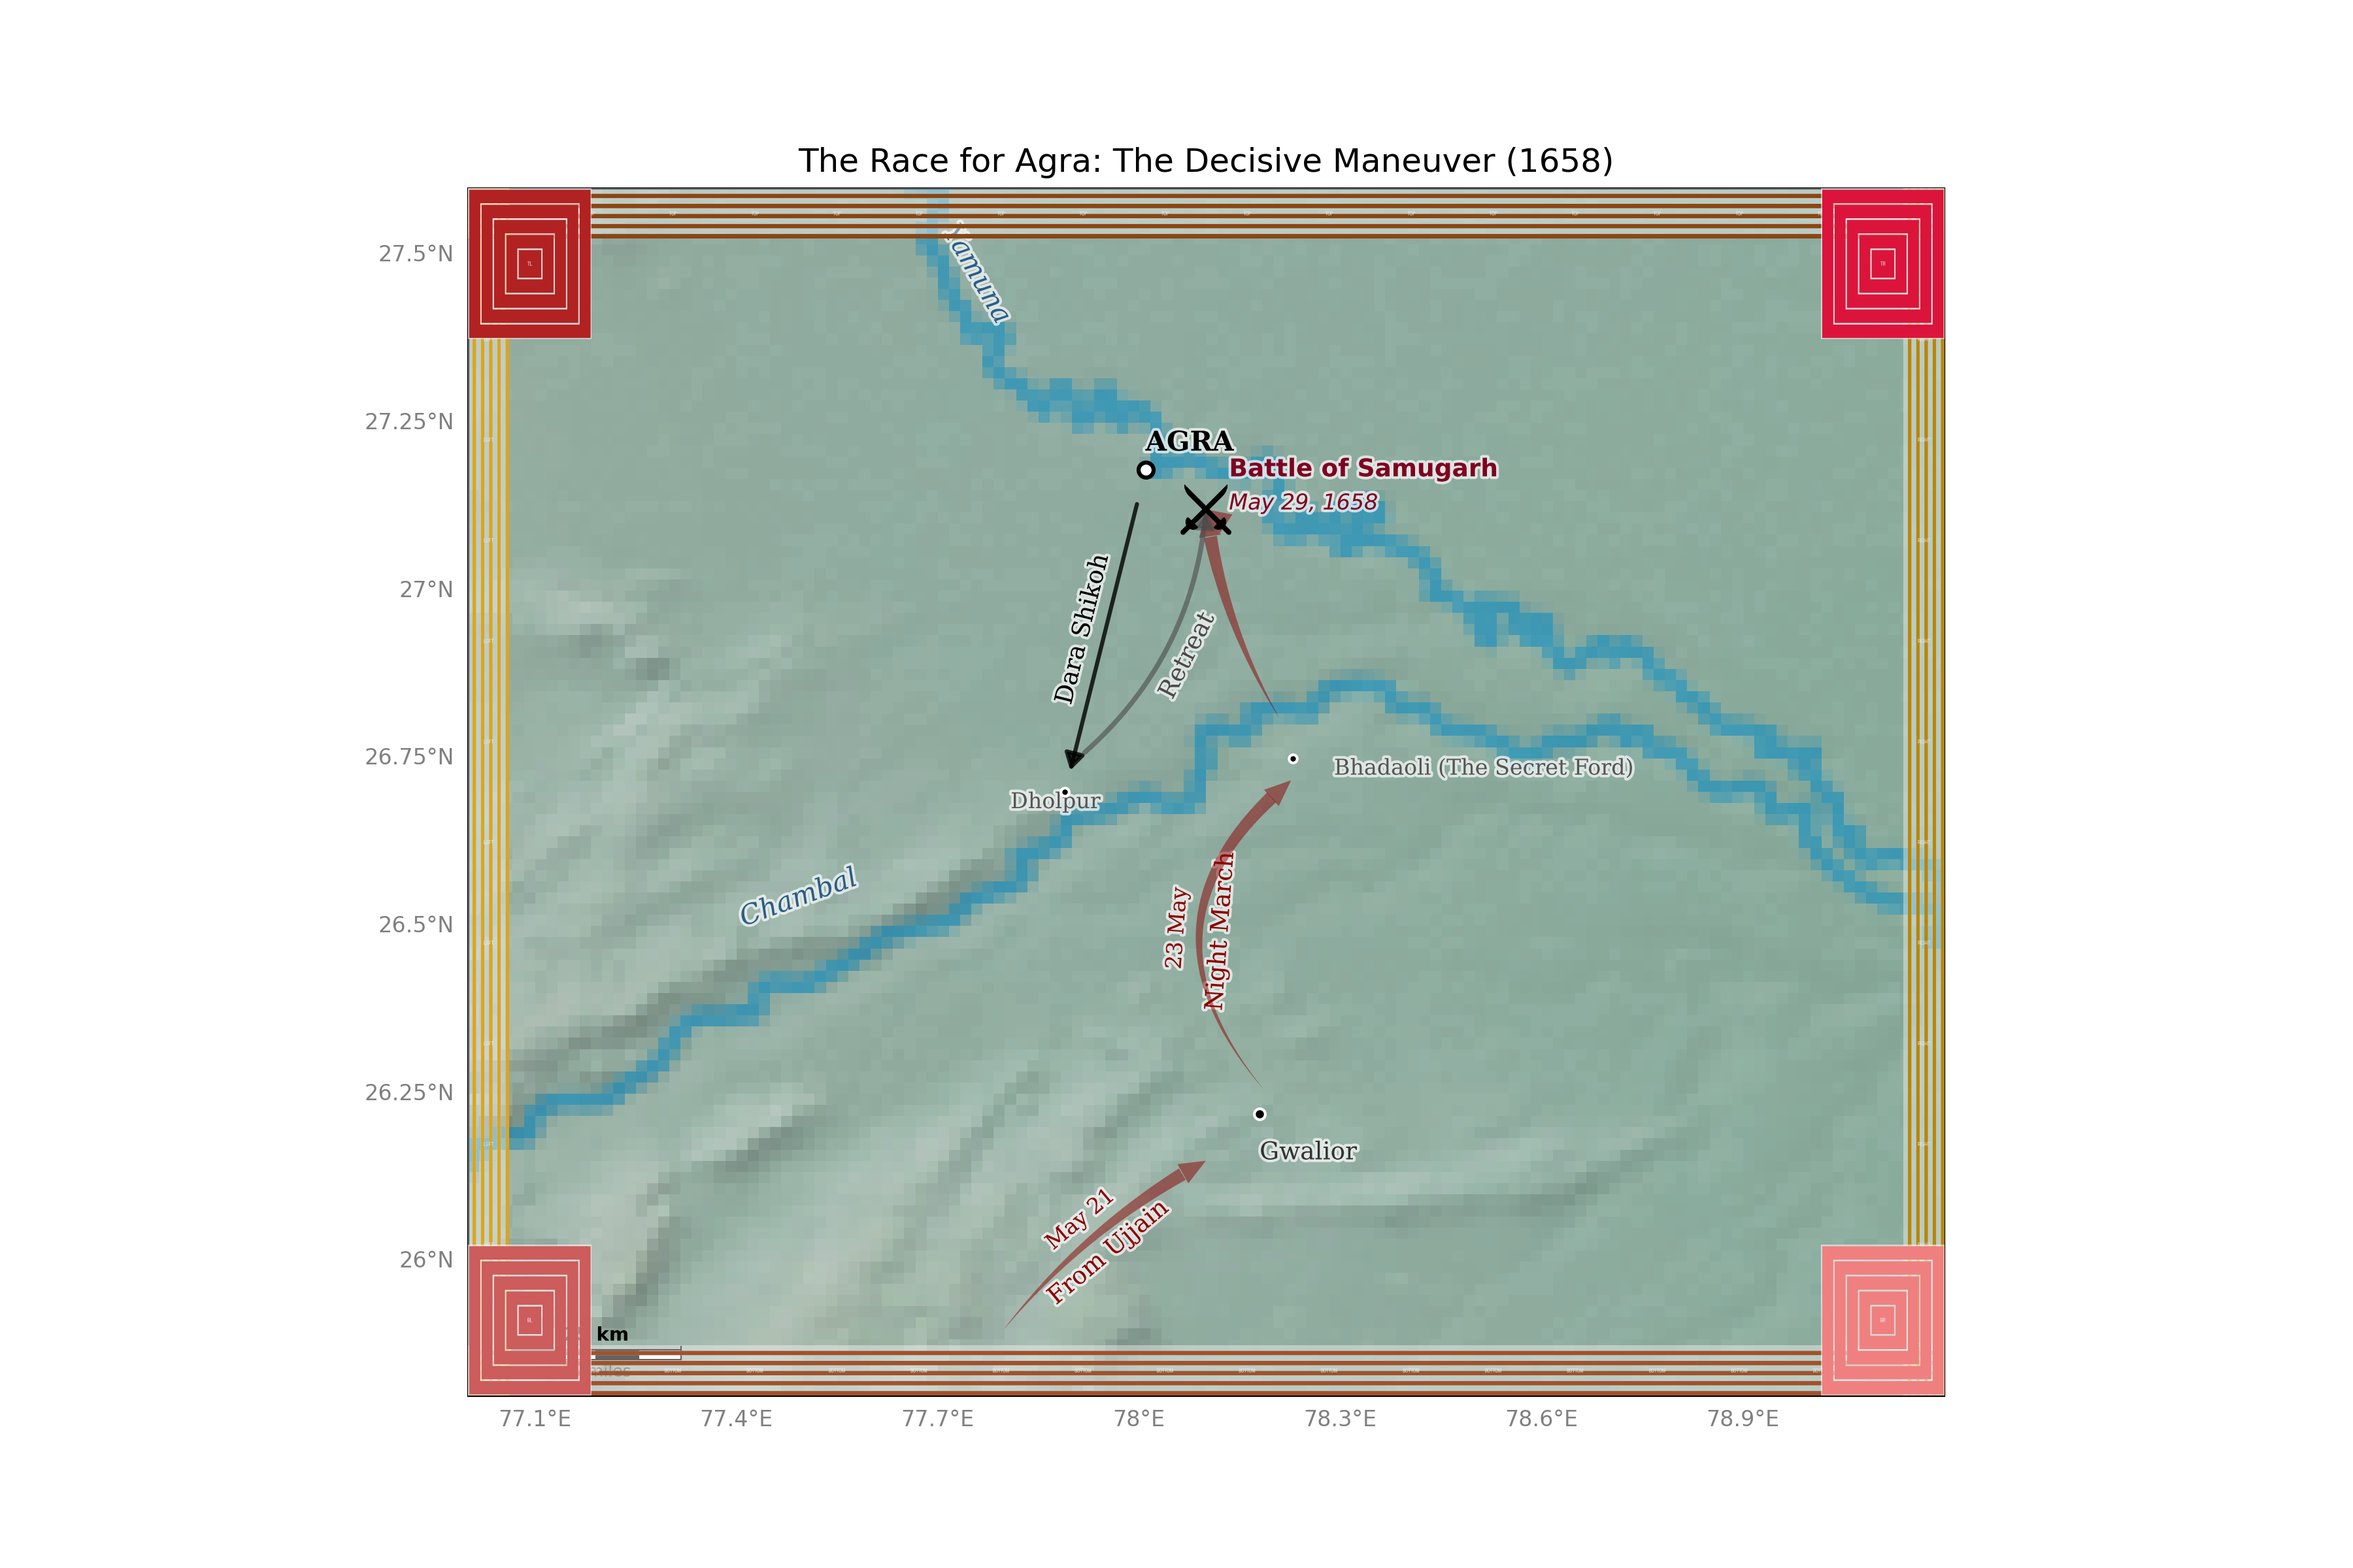
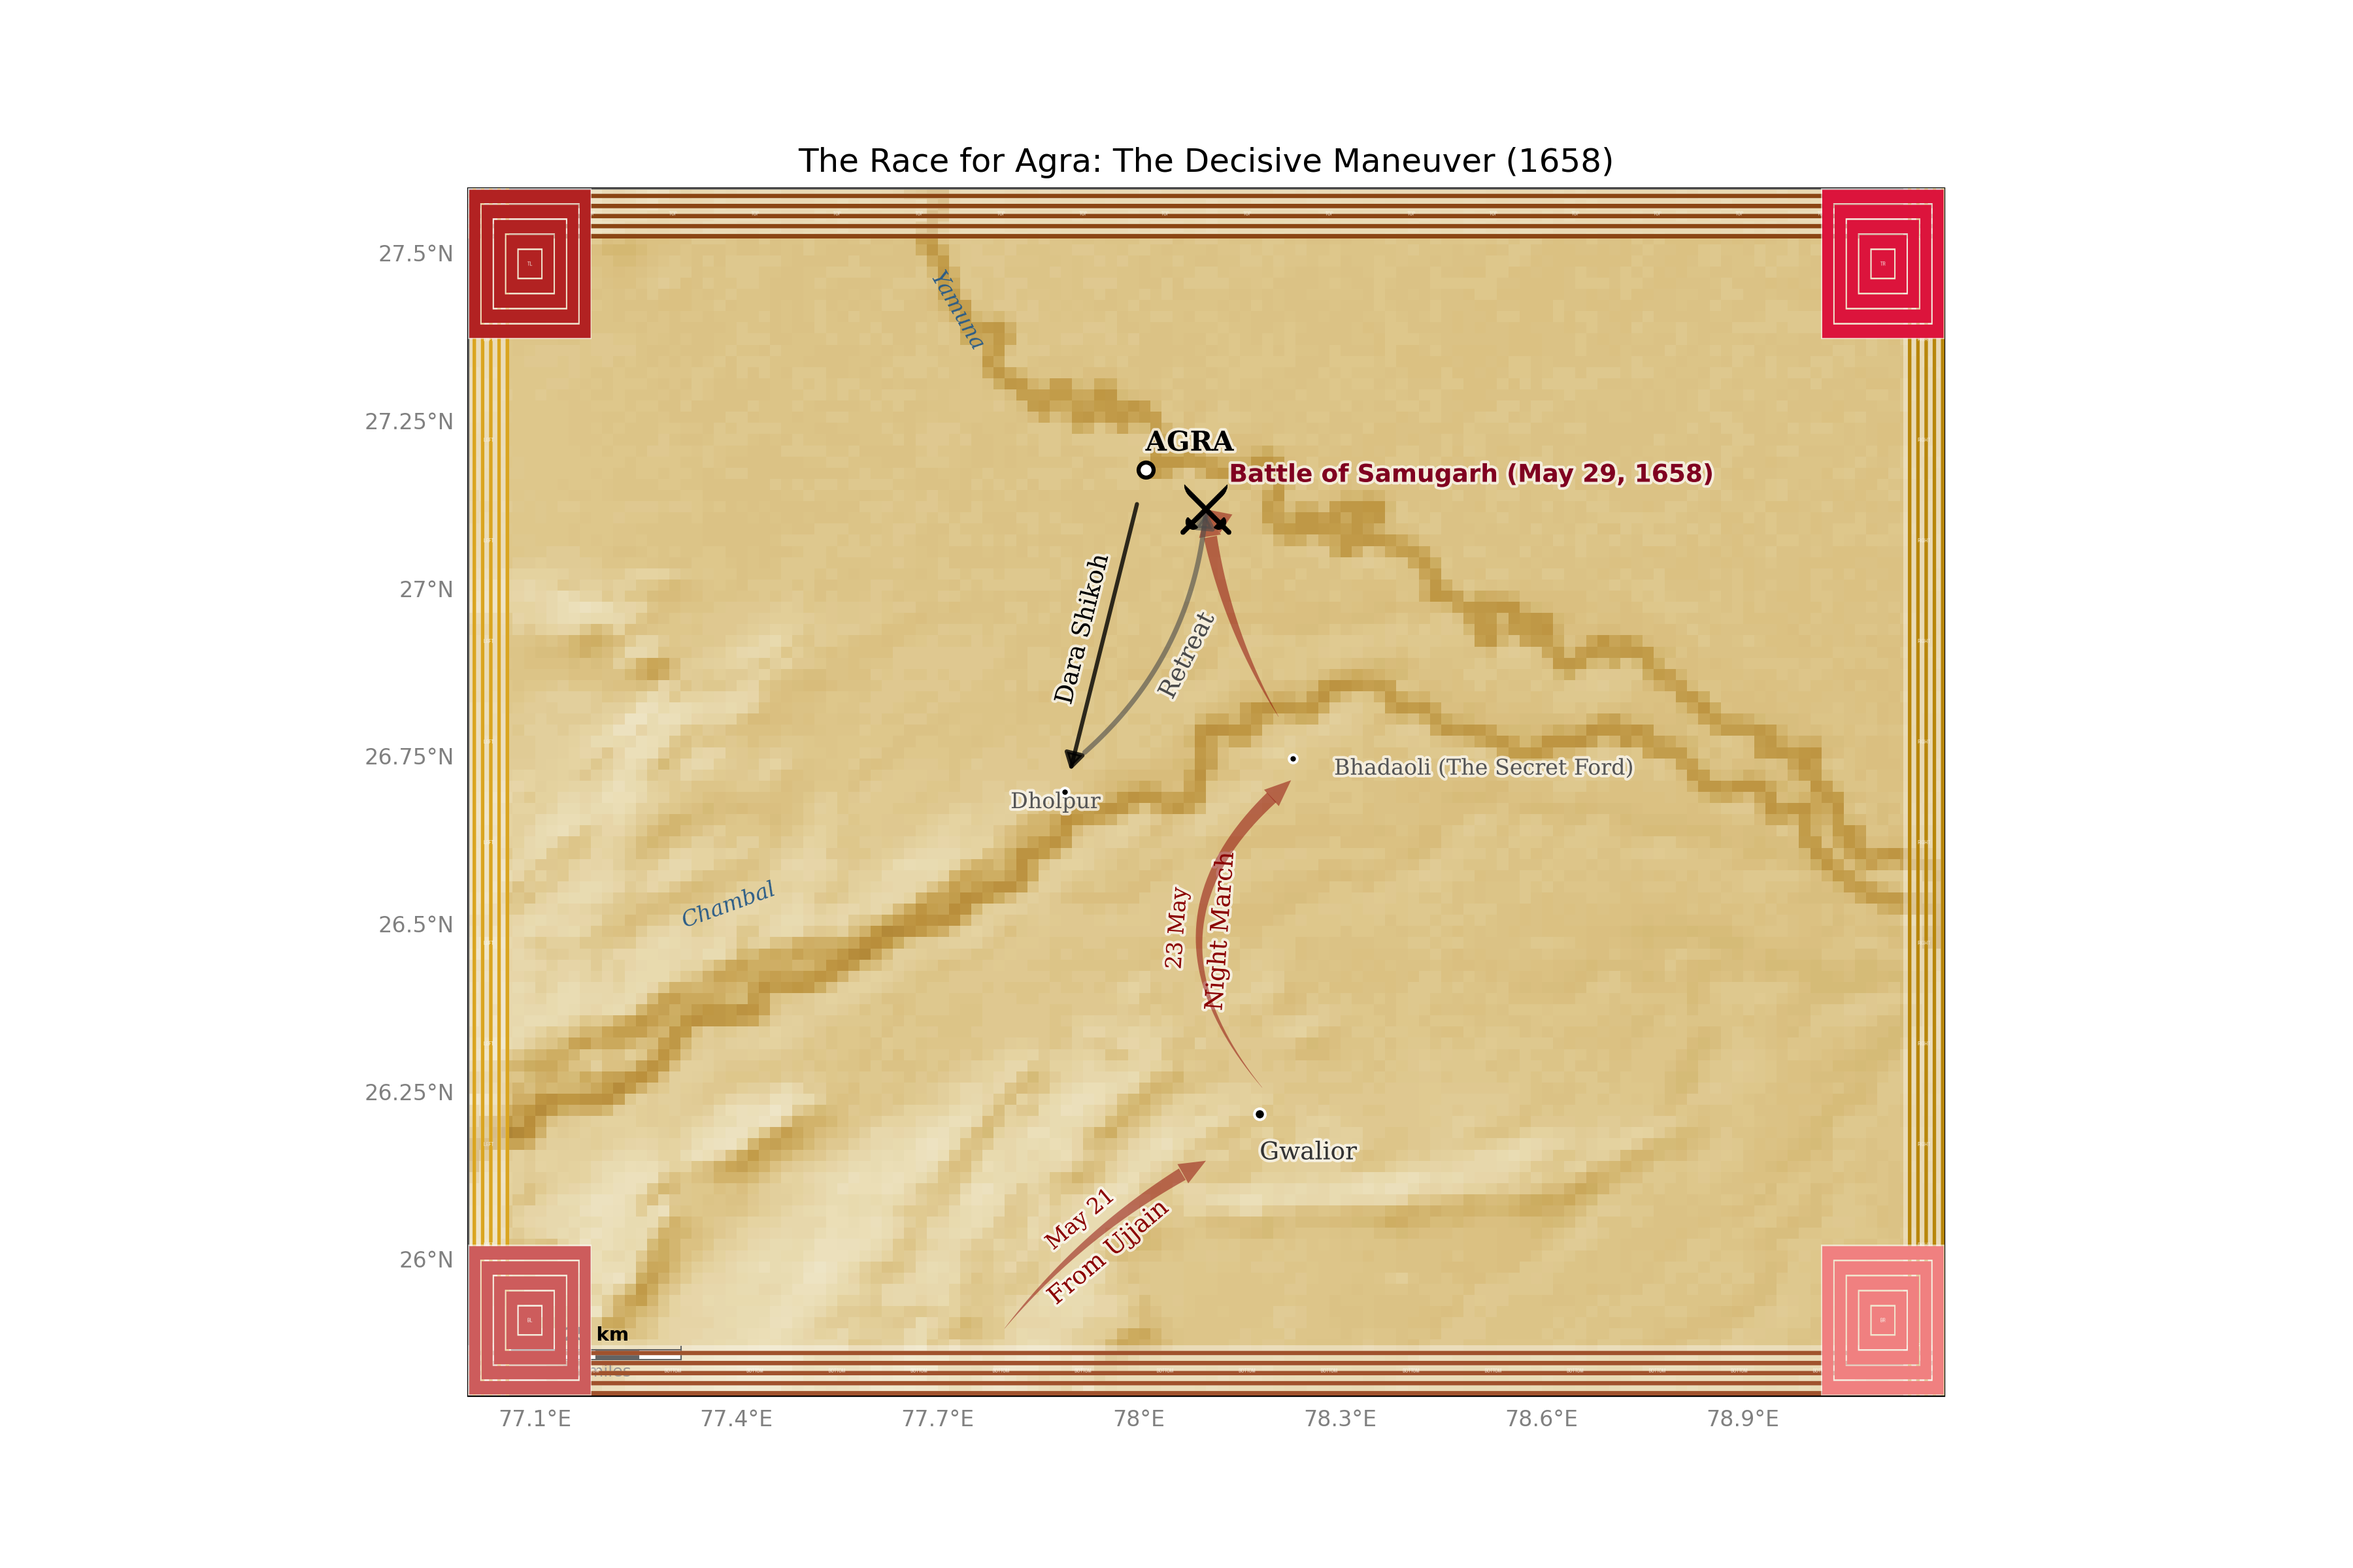
bw backgrounds

diff --git a/src/history_cartopy/render_map.py b/src/history_cartopy/render_map.py
@@ -48,6 +48,14 @@ BACKGROUND_DOWNLOADS = {
         'url': 'https://home.chetanv.net/history_cartopy/HYP_LR_SR_OB_DR_YELLOW.zip',
         'description': 'Low resolution yellow variant background',
     },
+    'HYP_LR_SR_OB_DR_GREY.tif': {
+        'url': 'https://home.chetanv.net/history_cartopy/HYP_LR_SR_OB_DR_GREY.zip',
+        'description': 'Low resolution grey variant background',
+    },
+    'HYP_LR_SR_OB_DR_BW.tif': {
+        'url': 'https://home.chetanv.net/history_cartopy/HYP_LR_SR_OB_DR_BW.zip',
+        'description': 'Low resolution black & white variant background',
+    },
 }
 
 # Natural Earth vector data downloads
@@ -295,7 +303,7 @@ def main():
 
     # 2. Optional overrides
     parser.add_argument('--init', action='store_true', help='Download Natural Earth background images')
-    parser.add_argument('--res', choices=['dev', 'low', 'med', 'high', 'med-yellow', 'high-yellow'], help='Override background resolution')
+    parser.add_argument('--res', choices=['dev', 'low', 'med', 'high', 'med-yellow', 'high-yellow', 'med-grey', 'med-bw'], help='Override background resolution')
     parser.add_argument('--output', help='Override output filename')
     parser.add_argument('--debug', action='store_true', help='Enable debug logging')
     parser.add_argument('--debug-river-candidates', action='store_true', help='Render all river label candidates')
@@ -363,6 +371,10 @@ def main():
         ax.background_img(name='ne_hyp', resolution='high-yellow')
     elif res == 'med-yellow':
         ax.background_img(name='ne_hyp', resolution='med-yellow')
+    elif res == 'med-grey':
+        ax.background_img(name='ne_hyp', resolution='med-grey')
+    elif res == 'med-bw':
+        ax.background_img(name='ne_hyp', resolution='med-bw')
     elif res == 'low':
         ax.stock_img()
     elif res == 'dev':
